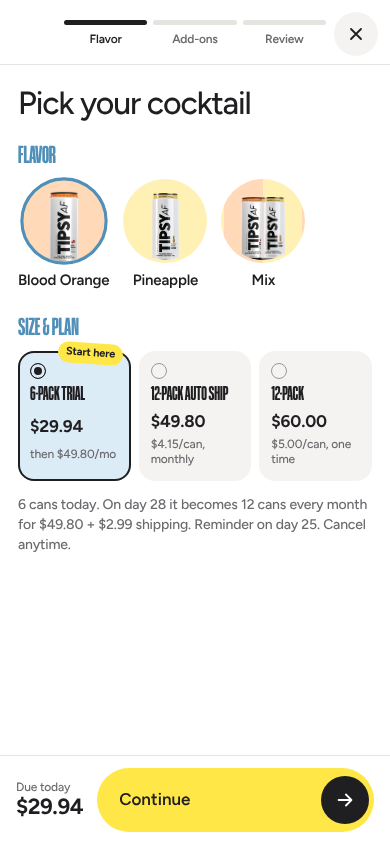
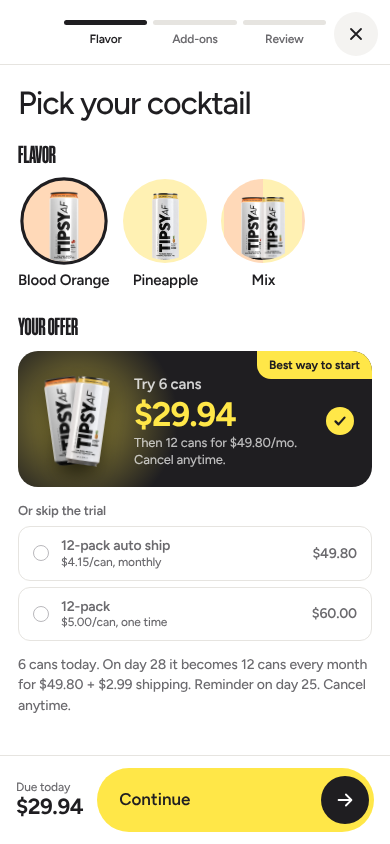
v3: use spotlight trial offer as the default layout
Removes the preview layout switcher; other layouts stay available via the
Offer layout theme setting.

Claude-Session: https://claude.ai/code/session_014FM66vq5zwtojFZzRdgT7G

diff --git a/tipsy-af-v3/preview/index.html b/tipsy-af-v3/preview/index.html
@@ -616,12 +616,6 @@ body { margin: 0; background: #fff; }
 .tpm-alt input:checked + .tpm-alt__row { color: var(--tpm-ink); border-color: var(--tpm-ink); background: #fff; }
 .tpm-alt input:checked + .tpm-alt__row::before { border-color: var(--tpm-ink); background: var(--tpm-ink); box-shadow: inset 0 0 0 3px #fff; }
 
-/* Preview-only layout switcher */
-.tpm-styleswitch { position: fixed; left: 50%; top: 10px; transform: translateX(-50%); z-index: 2147483000; display: flex; align-items: center; gap: 4px; padding: 5px 5px 5px 14px; border-radius: 999px; background: rgba(31,30,33,.92); color: #fff; font-size: 13px; font-weight: 600; box-shadow: 0 8px 24px rgba(0,0,0,.25); }
-.tpm-styleswitch span { margin-right: 6px; white-space: nowrap; }
-.tpm-styleswitch button { width: 34px; height: 34px; border-radius: 50%; border: 0; background: rgba(255,255,255,.12); color: #fff; font-weight: 700; cursor: pointer; }
-.tpm-styleswitch button[aria-pressed="true"] { background: var(--tpm-accent); color: var(--tpm-ink); }
-
 </style>
 </head>
 <body>
@@ -1128,13 +1122,13 @@ body { margin: 0; background: #fff; }
   // ---- Picker: flavor circles + size & plan cards (used inline and in the sheet) ----
   // Offer layout: 'cards' (three equal cards), or a highlighted 6-pack trial
   // with the 12-packs toned down: 'ticket', 'spotlight' or 'stamp'.
-  var STYLES = ['ticket', 'spotlight', 'stamp', 'cards'];
+  var STYLES = ['spotlight', 'ticket', 'stamp', 'cards'];
   var offerStyle = String(DATA.offerStyle || '').trim();
   if (MODE === 'preview') {
     var q = (window.location.search.match(/[?&]offer=(\w+)/) || [])[1];
     if (q) offerStyle = q;
   }
-  if (STYLES.indexOf(offerStyle) < 0) offerStyle = 'ticket';
+  if (STYLES.indexOf(offerStyle) < 0) offerStyle = 'spotlight';
 
   function planOpt(n, k, cls, inner) {
     return '<label class="' + cls + '"><input type="radio" name="tpm-offer-' + n + '" value="' + k + '">' + inner + '</label>';
@@ -1218,30 +1212,6 @@ body { margin: 0; background: #fff; }
   }
   $all('[data-tpm-picker]').forEach(renderPicker);
 
-  // Preview only: switch between offer layouts to compare them.
-  if (MODE === 'preview') {
-    var sw = document.createElement('div');
-    sw.className = 'tpm-styleswitch';
-    sw.setAttribute('role', 'group');
-    sw.setAttribute('aria-label', 'Preview: offer layout');
-    sw.innerHTML = '<span>Offer layout</span>' + STYLES.map(function (st, k) {
-      return '<button type="button" data-style="' + st + '">' + String.fromCharCode(65 + k) + '</button>';
-    }).join('');
-    root.appendChild(sw);
-    var paintSw = function () {
-      $all('button', sw).forEach(function (b) { b.setAttribute('aria-pressed', b.getAttribute('data-style') === offerStyle); });
-    };
-    sw.addEventListener('click', function (e) {
-      var b = e.target.closest('button');
-      if (!b) return;
-      offerStyle = b.getAttribute('data-style');
-      $all('[data-tpm-picker]').forEach(function (el) { el.innerHTML = pickerHtml(el.getAttribute('data-tpm-picker-n')); });
-      paintSw();
-      sync();
-      if (window.history && history.replaceState) history.replaceState(null, '', '?offer=' + offerStyle + window.location.hash);
-    });
-    paintSw();
-  }
 
   // ---- Checkout sheet ----
   var sheet = root.querySelector('[data-tpm-checkout]');

diff --git a/tipsy-af-v3/src/page.js b/tipsy-af-v3/src/page.js
@@ -44,13 +44,13 @@
   // ---- Picker: flavor circles + size & plan cards (used inline and in the sheet) ----
   // Offer layout: 'cards' (three equal cards), or a highlighted 6-pack trial
   // with the 12-packs toned down: 'ticket', 'spotlight' or 'stamp'.
-  var STYLES = ['ticket', 'spotlight', 'stamp', 'cards'];
+  var STYLES = ['spotlight', 'ticket', 'stamp', 'cards'];
   var offerStyle = String(DATA.offerStyle || '').trim();
   if (MODE === 'preview') {
     var q = (window.location.search.match(/[?&]offer=(\w+)/) || [])[1];
     if (q) offerStyle = q;
   }
-  if (STYLES.indexOf(offerStyle) < 0) offerStyle = 'ticket';
+  if (STYLES.indexOf(offerStyle) < 0) offerStyle = 'spotlight';
 
   function planOpt(n, k, cls, inner) {
     return '<label class="' + cls + '"><input type="radio" name="tpm-offer-' + n + '" value="' + k + '">' + inner + '</label>';
@@ -134,30 +134,6 @@
   }
   $all('[data-tpm-picker]').forEach(renderPicker);
 
-  // Preview only: switch between offer layouts to compare them.
-  if (MODE === 'preview') {
-    var sw = document.createElement('div');
-    sw.className = 'tpm-styleswitch';
-    sw.setAttribute('role', 'group');
-    sw.setAttribute('aria-label', 'Preview: offer layout');
-    sw.innerHTML = '<span>Offer layout</span>' + STYLES.map(function (st, k) {
-      return '<button type="button" data-style="' + st + '">' + String.fromCharCode(65 + k) + '</button>';
-    }).join('');
-    root.appendChild(sw);
-    var paintSw = function () {
-      $all('button', sw).forEach(function (b) { b.setAttribute('aria-pressed', b.getAttribute('data-style') === offerStyle); });
-    };
-    sw.addEventListener('click', function (e) {
-      var b = e.target.closest('button');
-      if (!b) return;
-      offerStyle = b.getAttribute('data-style');
-      $all('[data-tpm-picker]').forEach(function (el) { el.innerHTML = pickerHtml(el.getAttribute('data-tpm-picker-n')); });
-      paintSw();
-      sync();
-      if (window.history && history.replaceState) history.replaceState(null, '', '?offer=' + offerStyle + window.location.hash);
-    });
-    paintSw();
-  }
 
   // ---- Checkout sheet ----
   var sheet = root.querySelector('[data-tpm-checkout]');

diff --git a/tipsy-af-v3/src/page.css b/tipsy-af-v3/src/page.css
@@ -593,9 +593,3 @@
 .tpm-alt__price { grid-area: price; font-weight: 600; }
 .tpm-alt input:checked + .tpm-alt__row { color: var(--tpm-ink); border-color: var(--tpm-ink); background: #fff; }
 .tpm-alt input:checked + .tpm-alt__row::before { border-color: var(--tpm-ink); background: var(--tpm-ink); box-shadow: inset 0 0 0 3px #fff; }
-
-/* Preview-only layout switcher */
-.tpm-styleswitch { position: fixed; left: 50%; top: 10px; transform: translateX(-50%); z-index: 2147483000; display: flex; align-items: center; gap: 4px; padding: 5px 5px 5px 14px; border-radius: 999px; background: rgba(31,30,33,.92); color: #fff; font-size: 13px; font-weight: 600; box-shadow: 0 8px 24px rgba(0,0,0,.25); }
-.tpm-styleswitch span { margin-right: 6px; white-space: nowrap; }
-.tpm-styleswitch button { width: 34px; height: 34px; border-radius: 50%; border: 0; background: rgba(255,255,255,.12); color: #fff; font-weight: 700; cursor: pointer; }
-.tpm-styleswitch button[aria-pressed="true"] { background: var(--tpm-accent); color: var(--tpm-ink); }

diff --git a/tipsy-af-v3/README.md b/tipsy-af-v3/README.md
@@ -38,12 +38,10 @@ recommendations that use the Mix switch to Blood Orange automatically.
 - **Comparison chart:** benefit labels and the yellow TIPSY AF column stay pinned; Mocktails, Kava drinks,
   Kratom drinks, THC seltzers and Cocktails scroll sideways on phones (all visible on desktop). Eight rows,
   compared by category, with "Varies" where it depends on the brand or state. TIPSY checks animate in.
-- **Offer layouts:** the 6-pack trial is shown as a highlighted deal, with the 12-pack options as quiet
-  rows under "Or skip the trial". Three treatments: **A ticket** (yellow coupon with "Offer applied"),
-  **B spotlight** (dark card, glowing cans, "Best way to start"), **C stamp** (white card with a
-  "Claimed" stamp). **D** is the earlier three-equal-cards layout. Switch in the preview with the
-  A/B/C/D bar at the top or `?offer=ticket|spotlight|stamp|cards`; on the store, set **Offer layout**
-  in the theme editor (default ticket).
+- **Offer layout (chosen: B spotlight):** the 6-pack trial is a dark featured card with glowing cans,
+  "Best way to start" and a yellow check; the 12-packs sit below as quiet rows under "Or skip the trial".
+  The earlier options remain as the theme setting **Offer layout** (`ticket`, `stamp`, `cards`) and can be
+  previewed with `?offer=ticket` etc.
 - **Colors:** buy box, plan cards, flavor selection and add-on buttons use the brand charcoal/yellow
   (the light blue from the Bev reference is gone).
 - **Buy box:** round flavor selectors and size & plan cards (Bev-style); its button continues to
